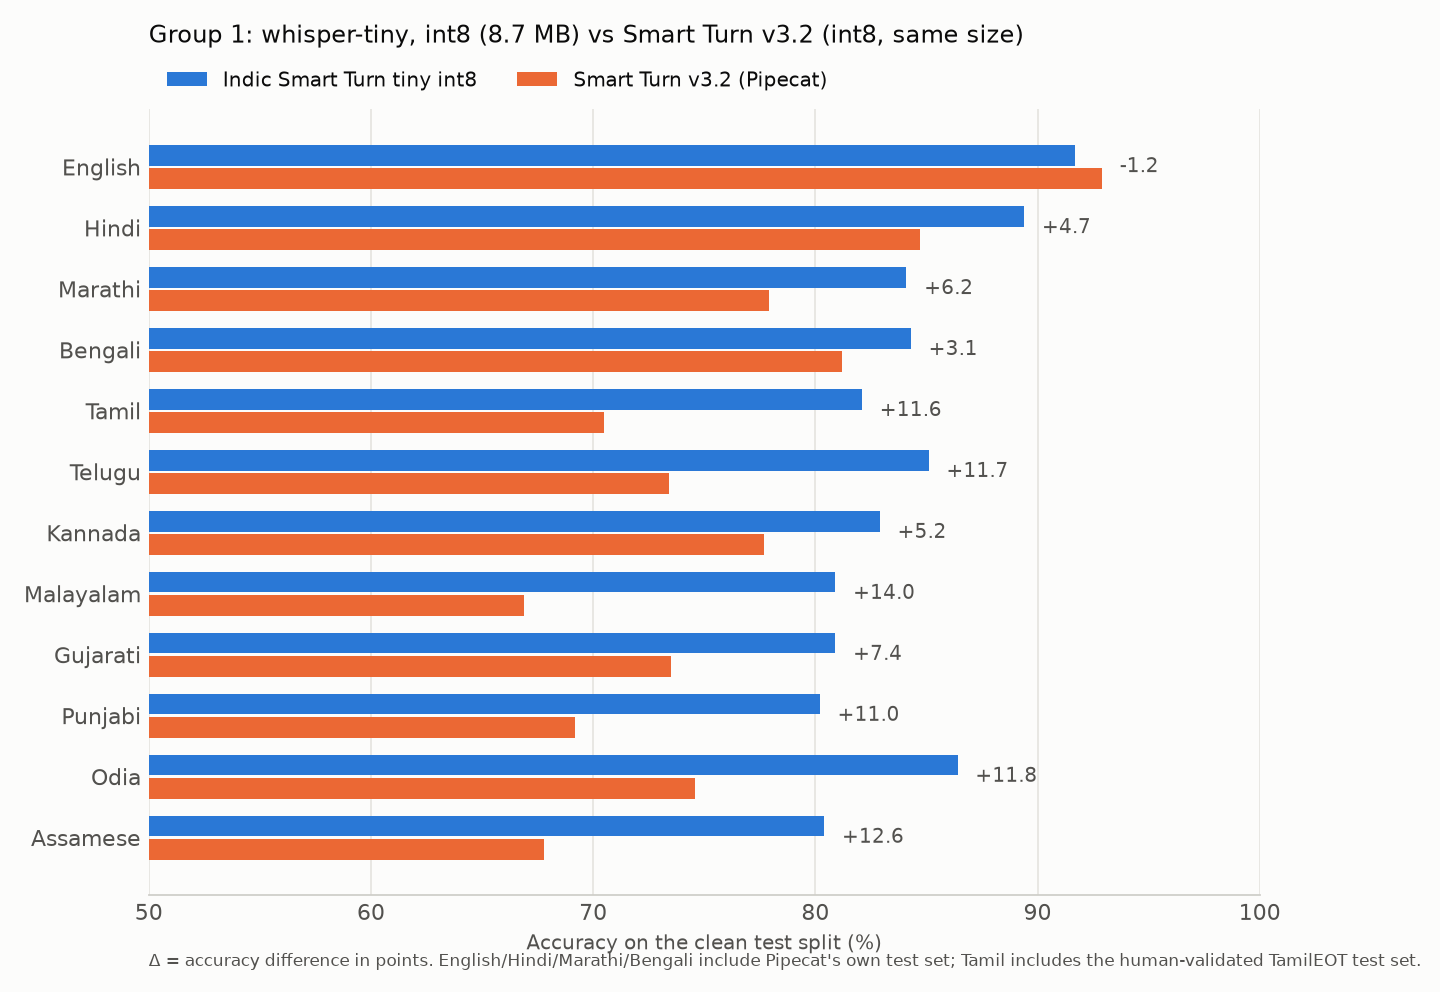
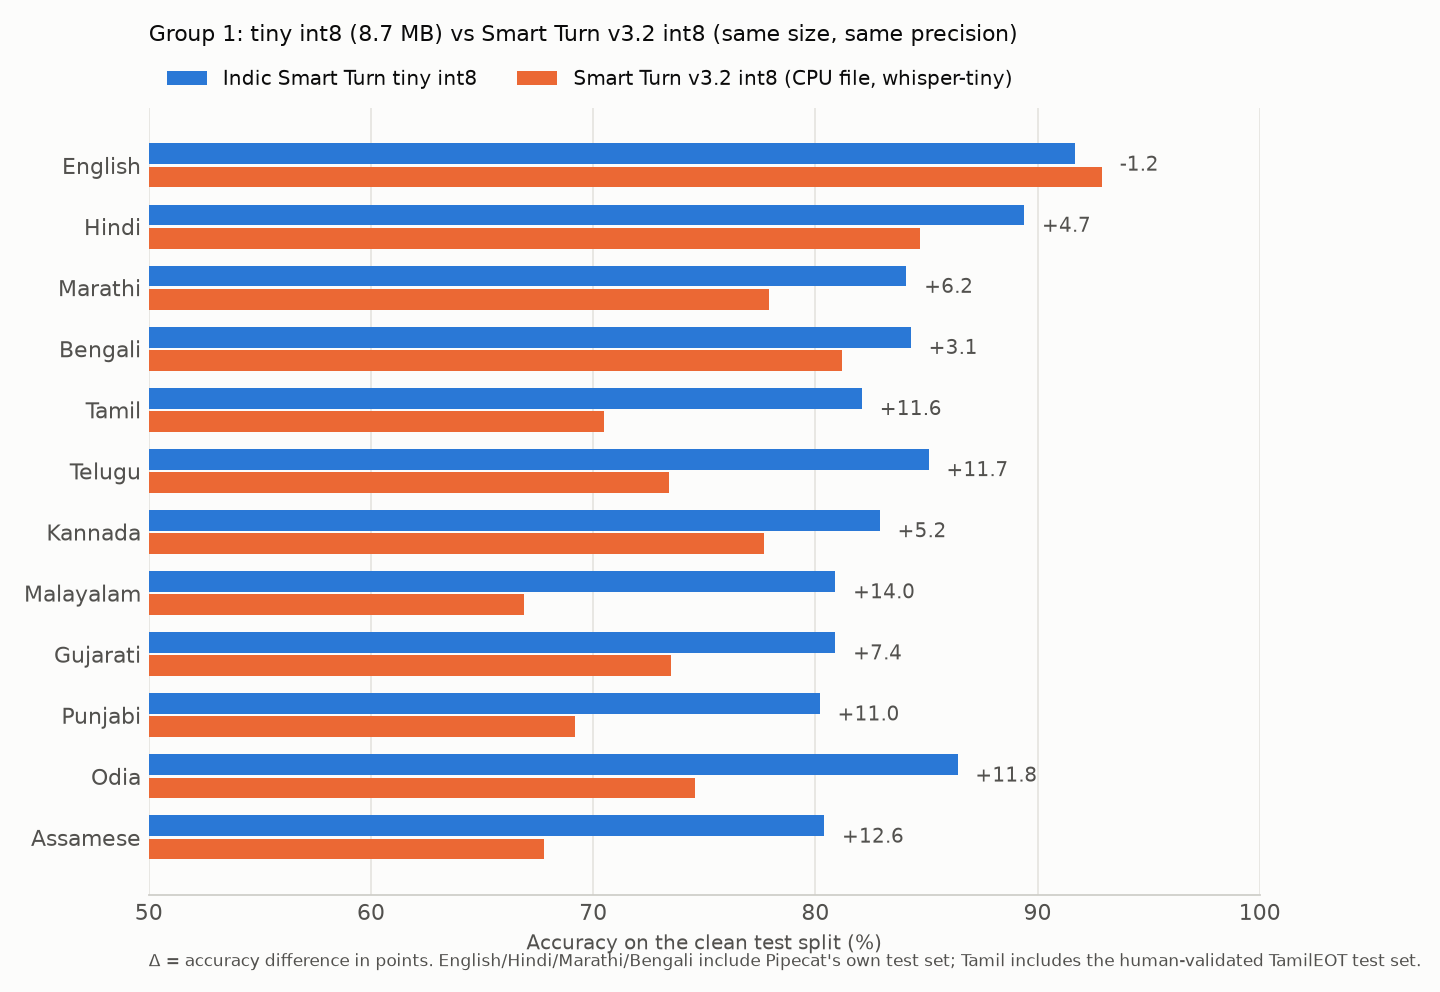
docs: pair each result group with the same-precision Smart Turn v3.2 file; add interactive charts
Smart Turn v3.2 ships as whisper-tiny int8 (CPU) and fp32 (GPU); int8 groups
now compare with the int8 file and fp32 groups with the fp32 file.
docs/charts.html renders the four charts with hover values and table views.

diff --git a/docs/charts.html b/docs/charts.html
@@ -1,0 +1,89 @@
+<title>Indic Smart Turn Results</title>
+<link rel="stylesheet" href="https://fonts.googleapis.com/css2?family=IBM+Plex+Sans:wght@400;500;600&family=IBM+Plex+Mono:wght@400;500&display=swap">
+<style>
+/* Layout: one column of four small-multiple bar charts, each self-contained with legend, hover tooltip and a table view. */
+:root{
+  --bg:#fcfcfb; --surface:#f3f2ee; --ink:#141412; --ink-2:#55534d; --ink-3:#8a877f; --rule:#dedcd5; --grid:#e9e8e3;
+  --ours:#2a78d6; --base:#eb6834; --ours-ink:#1c5cab; --base-ink:#b8461f;
+  --font-body:"IBM Plex Sans",system-ui,-apple-system,"Segoe UI",sans-serif; --font-mono:"IBM Plex Mono",ui-monospace,Menlo,monospace;
+}
+@media (prefers-color-scheme: dark){ :root:not([data-theme="light"]){ color-scheme:dark; --bg:#1a1a19; --surface:#232322; --ink:#f3f2ee; --ink-2:#c3c2b7; --ink-3:#8f8d85; --rule:#3a3936; --grid:#2d2d2b; --ours:#3987e5; --base:#d95926; --ours-ink:#86b6ef; --base-ink:#f2a07f; } }
+:root[data-theme="dark"]{ color-scheme:dark; --bg:#1a1a19; --surface:#232322; --ink:#f3f2ee; --ink-2:#c3c2b7; --ink-3:#8f8d85; --rule:#3a3936; --grid:#2d2d2b; --ours:#3987e5; --base:#d95926; --ours-ink:#86b6ef; --base-ink:#f2a07f; }
+body{margin:0;background:var(--bg);color:var(--ink);font-family:var(--font-body);font-size:15px;line-height:1.5}
+.wrap{max-width:980px;margin:0 auto;padding-block:32px 56px;padding-inline:20px}
+h1{font-size:26px;font-weight:600;margin:0 0 6px;text-wrap:balance;letter-spacing:-0.01em}
+.lede{color:var(--ink-2);max-width:66ch;margin:0 0 8px}
+.meta{font-family:var(--font-mono);font-size:12px;color:var(--ink-3);letter-spacing:.02em;text-transform:uppercase;margin-bottom:28px}
+.chart{border-top:1px solid var(--rule);padding-block:22px 10px}
+.chart h2{font-size:17px;font-weight:600;margin:0 0 4px;text-wrap:balance}
+.chart .sub{color:var(--ink-2);margin:0 0 12px;max-width:70ch}
+.legend{display:flex;flex-wrap:wrap;gap:18px;font-size:13px;color:var(--ink-2);margin:0 0 10px}
+.legend span{display:inline-flex;align-items:center;gap:8px}
+.legend i{display:inline-block;width:14px;height:10px;border-radius:2px}
+.plot{position:relative}
+svg{display:block;width:100%;height:auto}
+.bar{cursor:default}
+.bar:hover{filter:brightness(1.12)}
+.tip{position:absolute;pointer-events:none;background:var(--ink);color:var(--bg);font-family:var(--font-mono);font-size:12px;padding:6px 9px;border-radius:4px;white-space:nowrap;transform:translate(-50%,-115%);opacity:0;transition:opacity .08s}
+.tip.on{opacity:1}
+.tools{display:flex;gap:10px;align-items:center;margin-top:6px}
+button{font:inherit;font-size:13px;color:var(--ink-2);background:var(--surface);border:1px solid var(--rule);border-radius:4px;padding:5px 10px;cursor:pointer}
+button:hover,button:focus-visible{color:var(--ink);outline:2px solid var(--ours);outline-offset:1px}
+table{border-collapse:collapse;width:100%;margin-top:10px;font-size:13px;font-variant-numeric:tabular-nums}
+th,td{text-align:right;padding:5px 8px;border-bottom:1px solid var(--grid)}
+th:first-child,td:first-child{text-align:left}
+th{color:var(--ink-3);font-weight:500}
+.pos{color:var(--ours-ink)} .neg{color:var(--base-ink)}
+.note{color:var(--ink-3);font-size:12.5px;max-width:70ch;margin-top:24px}
+@media (max-width:520px){ .wrap{padding-inline:16px} h1{font-size:22px} }
+@media (prefers-reduced-motion: reduce){ .tip{transition:none} }
+</style>
+<div class="wrap">
+  <h1>Indic Smart Turn versus Smart Turn v3.2</h1>
+  <p class="lede">Accuracy per language on the same speaker-disjoint test clips, at the default 0.5 threshold. Hover a bar for the exact value; open the table for the numbers and the difference.</p>
+  <div class="meta">11 Indian languages + English · 20,431 test clips · four model groups</div>
+  <div id="charts"></div>
+  <p class="note">Pipecat ships Smart Turn v3.2 as two whisper-tiny files: int8 for CPU and fp32 for GPU. There is no base-size v3.2, so the base groups are compared with the tiny v3.2 file of the same precision. English, Hindi, Marathi and Bengali rows include Pipecat's own v3.2 test set; Tamil includes the human-validated TamilEOT test set.</p>
+</div>
+<script>
+const DATA = {"group1_tiny_int8": {"title": "Group 1: tiny int8 (8.7 MB) vs Smart Turn v3.2 int8 (same size, same precision)", "ours_label": "Indic Smart Turn tiny int8", "baseline_label": "Smart Turn v3.2 int8 (CPU file, whisper-tiny)", "languages": ["English", "Hindi", "Marathi", "Bengali", "Tamil", "Telugu", "Kannada", "Malayalam", "Gujarati", "Punjabi", "Odia", "Assamese"], "ours": [91.7, 89.4, 84.1, 84.3, 82.1, 85.1, 82.9, 80.9, 80.9, 80.2, 86.4, 80.4], "baseline": [92.9, 84.7, 77.9, 81.2, 70.5, 73.4, 77.7, 66.9, 73.5, 69.2, 74.6, 67.8]}, "group2_base_int8": {"title": "Group 2: base int8 (24 MB) vs Smart Turn v3.2 int8 (same precision; v3.2 has no base size)", "ours_label": "Indic Smart Turn base int8", "baseline_label": "Smart Turn v3.2 int8 (CPU file, whisper-tiny)", "languages": ["English", "Hindi", "Marathi", "Bengali", "Tamil", "Telugu", "Kannada", "Malayalam", "Gujarati", "Punjabi", "Odia", "Assamese"], "ours": [93.2, 90.7, 88.1, 85.0, 84.8, 85.0, 87.0, 82.6, 82.5, 82.7, 89.1, 81.8], "baseline": [92.9, 84.7, 77.9, 81.2, 70.5, 73.4, 77.7, 66.9, 73.5, 69.2, 74.6, 67.8]}, "group3_tiny_fp32": {"title": "Group 3: tiny fp32 (32 MB) vs Smart Turn v3.2 fp32 (same size, same precision)", "ours_label": "Indic Smart Turn tiny fp32", "baseline_label": "Smart Turn v3.2 fp32 (GPU file, whisper-tiny)", "languages": ["English", "Hindi", "Marathi", "Bengali", "Tamil", "Telugu", "Kannada", "Malayalam", "Gujarati", "Punjabi", "Odia", "Assamese"], "ours": [93.7, 90.2, 88.1, 85.4, 83.4, 85.0, 82.3, 81.4, 82.5, 83.1, 84.9, 81.4], "baseline": [94.7, 83.0, 75.8, 75.9, 58.6, 58.1, 56.6, 49.6, 58.4, 56.7, 60.4, 55.4]}, "group4_base_fp32": {"title": "Group 4: base fp32 (81 MB) vs Smart Turn v3.2 fp32 (same precision; v3.2 has no base size)", "ours_label": "Indic Smart Turn base fp32", "baseline_label": "Smart Turn v3.2 fp32 (GPU file, whisper-tiny)", "languages": ["English", "Hindi", "Marathi", "Bengali", "Tamil", "Telugu", "Kannada", "Malayalam", "Gujarati", "Punjabi", "Odia", "Assamese"], "ours": [94.9, 91.0, 89.6, 86.6, 86.2, 85.7, 88.6, 84.5, 84.7, 85.3, 88.5, 83.6], "baseline": [94.7, 83.0, 75.8, 75.9, 58.6, 58.1, 56.6, 49.6, 58.4, 56.7, 60.4, 55.4]}};
+const order = ["group1_tiny_int8","group2_base_int8","group3_tiny_fp32","group4_base_fp32"];
+const subs = {
+  group1_tiny_int8: "Same encoder size and precision as the shipped Smart Turn v3.2 CPU file.",
+  group2_base_int8: "Weights-only int8; ROC-AUC within 0.005 of fp32 in every language.",
+  group3_tiny_fp32: "Compared with the Smart Turn v3.2 GPU file, which is fp32.",
+  group4_base_fp32: "The most accurate model; on TamilEOT it matches the paper's whisper-base result."
+};
+const root = document.getElementById("charts");
+for (const key of order) {
+  const d = DATA[key]; const n = d.languages.length;
+  const W = 900, L = 96, R = 60, T = 8, rowH = 34, H = T + n*rowH + 30, x0 = 50, x1 = 100;
+  const sx = v => L + (v - x0) / (x1 - x0) * (W - L - R);
+  let svg = `<svg viewBox="0 0 ${W} ${H}" role="img" aria-label="${d.title}">`;
+  for (let g = x0; g <= x1; g += 10) svg += `<line x1="${sx(g)}" x2="${sx(g)}" y1="${T}" y2="${H-26}" stroke="var(--grid)" stroke-width="1"/><text x="${sx(g)}" y="${H-10}" text-anchor="middle" font-size="12" fill="var(--ink-3)" font-family="var(--font-mono)">${g}</text>`;
+  d.languages.forEach((lang, i) => {
+    const y = T + i*rowH, o = d.ours[i], b = d.baseline[i], delta = (o - b);
+    svg += `<text x="${L-10}" y="${y+rowH/2+4}" text-anchor="end" font-size="13" fill="var(--ink)">${lang}</text>`;
+    svg += `<rect class="bar" data-tip="${d.ours_label}: ${o.toFixed(1)}%" x="${sx(x0)}" y="${y+4}" width="${sx(o)-sx(x0)}" height="11" rx="2" fill="var(--ours)"/>`;
+    svg += `<rect class="bar" data-tip="${d.baseline_label}: ${b.toFixed(1)}%" x="${sx(x0)}" y="${y+18}" width="${sx(b)-sx(x0)}" height="11" rx="2" fill="var(--base)"/>`;
+    svg += `<text x="${sx(Math.max(o,b))+8}" y="${y+rowH/2+4}" font-size="12" fill="var(--ink-2)" font-family="var(--font-mono)">${delta>=0?"+":""}${delta.toFixed(1)}</text>`;
+  });
+  svg += `</svg>`;
+  let table = `<table hidden><thead><tr><th>Language</th><th>${d.ours_label}</th><th>${d.baseline_label}</th><th>Difference</th></tr></thead><tbody>`;
+  d.languages.forEach((lang,i)=>{ const dl=d.ours[i]-d.baseline[i]; table += `<tr><td>${lang}</td><td>${d.ours[i].toFixed(1)}</td><td>${d.baseline[i].toFixed(1)}</td><td class="${dl>=0?'pos':'neg'}">${dl>=0?'+':''}${dl.toFixed(1)}</td></tr>`; });
+  table += `</tbody></table>`;
+  const sec = document.createElement("section"); sec.className = "chart";
+  sec.innerHTML = `<h2>${d.title}</h2><p class="sub">${subs[key]}</p>
+    <div class="legend"><span><i style="background:var(--ours)"></i>${d.ours_label}</span><span><i style="background:var(--base)"></i>${d.baseline_label}</span><span><i style="background:transparent;width:0"></i>Number at the end of each row: difference in points</span></div>
+    <div class="plot">${svg}<div class="tip"></div></div>
+    <div class="tools"><button type="button" id="btn-${key}" aria-expanded="false">Show table</button></div>${table}`;
+  root.appendChild(sec);
+  const tip = sec.querySelector(".tip"), plot = sec.querySelector(".plot");
+  sec.querySelectorAll(".bar").forEach(bar => {
+    bar.addEventListener("mousemove", e => { const r = plot.getBoundingClientRect(); tip.textContent = bar.dataset.tip; tip.style.left = (e.clientX - r.left) + "px"; tip.style.top = (e.clientY - r.top) + "px"; tip.classList.add("on"); });
+    bar.addEventListener("mouseleave", () => tip.classList.remove("on"));
+  });
+  const btn = sec.querySelector("button"), tbl = sec.querySelector("table");
+  btn.addEventListener("click", () => { tbl.hidden = !tbl.hidden; btn.textContent = tbl.hidden ? "Show table" : "Hide table"; btn.setAttribute("aria-expanded", String(!tbl.hidden)); });
+}
+</script>

diff --git a/scripts/make_charts.py b/scripts/make_charts.py
@@ -16,16 +16,21 @@ for r in csv.DictReader(open("reports/test_probs.csv")):
     probs[r["language"]].append((float(r["base_int8_dynamic"]) > 0.5) == (r["label"] == "1"))
 code = {"eng":"English","hin":"Hindi","mar":"Marathi","ben":"Bengali","tam":"Tamil","tel":"Telugu","kan":"Kannada","mal":"Malayalam","guj":"Gujarati","pan":"Punjabi","ori":"Odia","asm":"Assamese"}
 for c, v in probs.items(): rows[(code.get(c, c), "base_int8_dynamic")] = 100 * np.mean(v)
-groups = [("group1_tiny_int8", "Group 1: whisper-tiny, int8 (8.7 MB) vs Smart Turn v3.2 (int8, same size)", "tiny_int8", "Indic Smart Turn tiny int8"),
-          ("group2_base_int8", "Group 2: whisper-base, dynamic int8 (24 MB) vs Smart Turn v3.2", "base_int8_dynamic", "Indic Smart Turn base int8"),
-          ("group3_tiny_fp32", "Group 3: whisper-tiny, fp32 (32 MB) vs Smart Turn v3.2", "tiny_fp32", "Indic Smart Turn tiny fp32"),
-          ("group4_base_fp32", "Group 4: whisper-base, fp32 (81 MB) vs Smart Turn v3.2", "base_fp32", "Indic Smart Turn base fp32")]
-for fname, title, key, label in groups:
-    ours = [rows[(l, key)] for l in LANGS]; v32 = [rows[(l, "stock_v3.2_cpu")] for l in LANGS]
+# Pipecat ships Smart Turn v3.2 as two whisper-tiny files: int8 for CPU and fp32 for GPU. There is no base-size v3.2,
+# so int8 groups are compared with the v3.2 int8 file and fp32 groups with the v3.2 fp32 file.
+groups = [("group1_tiny_int8", "Group 1: tiny int8 (8.7 MB) vs Smart Turn v3.2 int8 (same size, same precision)", "tiny_int8", "Indic Smart Turn tiny int8", "stock_v3.2_cpu", "Smart Turn v3.2 int8 (CPU file, whisper-tiny)"),
+          ("group2_base_int8", "Group 2: base int8 (24 MB) vs Smart Turn v3.2 int8 (same precision; v3.2 has no base size)", "base_int8_dynamic", "Indic Smart Turn base int8", "stock_v3.2_cpu", "Smart Turn v3.2 int8 (CPU file, whisper-tiny)"),
+          ("group3_tiny_fp32", "Group 3: tiny fp32 (32 MB) vs Smart Turn v3.2 fp32 (same size, same precision)", "tiny_fp32", "Indic Smart Turn tiny fp32", "stock_v3.2_gpu", "Smart Turn v3.2 fp32 (GPU file, whisper-tiny)"),
+          ("group4_base_fp32", "Group 4: base fp32 (81 MB) vs Smart Turn v3.2 fp32 (same precision; v3.2 has no base size)", "base_fp32", "Indic Smart Turn base fp32", "stock_v3.2_gpu", "Smart Turn v3.2 fp32 (GPU file, whisper-tiny)")]
+import json
+export = {}
+for fname, title, key, label, bkey, blabel in groups:
+    ours = [rows[(l, key)] for l in LANGS]; v32 = [rows[(l, bkey)] for l in LANGS]
+    export[fname] = {"title": title, "ours_label": label, "baseline_label": blabel, "languages": LANGS, "ours": [round(x, 1) for x in ours], "baseline": [round(x, 1) for x in v32]}
     fig, ax = plt.subplots(figsize=(9, 6.2), dpi=160); fig.patch.set_facecolor(SURF); ax.set_facecolor(SURF)
     y = np.arange(len(LANGS)); h = 0.34
     ax.barh(y - h/2 - 0.02, ours, height=h, color=OURS, label=label, zorder=3)
-    ax.barh(y + h/2 + 0.02, v32, height=h, color=V32, label="Smart Turn v3.2 (Pipecat)", zorder=3)
+    ax.barh(y + h/2 + 0.02, v32, height=h, color=V32, label=blabel, zorder=3)
     for i, (o, s) in enumerate(zip(ours, v32)):
         ax.text(max(o, s) + 0.8, y[i], f"{o - s:+.1f}", va="center", ha="left", fontsize=9, color=INK2)
     ax.set_yticks(y); ax.set_yticklabels(LANGS, color=INK, fontsize=10); ax.invert_yaxis()
@@ -33,8 +38,9 @@ for fname, title, key, label in groups:
     ax.xaxis.grid(True, color="#e6e5e1", zorder=0); ax.set_axisbelow(True)
     for s in ("top", "right", "left"): ax.spines[s].set_visible(False)
     ax.spines["bottom"].set_color("#cfcec9"); ax.tick_params(colors=INK2, length=0)
-    ax.set_title(title, loc="left", fontsize=11, color=INK, pad=30)
+    ax.set_title(title, loc="left", fontsize=10, color=INK, pad=30)
     ax.legend(loc="lower left", bbox_to_anchor=(0, 1.0), ncol=2, frameon=False, fontsize=9, labelcolor=INK)
     ax.text(0, -0.09, "Δ = accuracy difference in points. English/Hindi/Marathi/Bengali include Pipecat's own test set; Tamil includes the human-validated TamilEOT test set.", transform=ax.transAxes, fontsize=7.5, color=INK2)
     fig.tight_layout(); fig.savefig(f"docs/figures/{fname}.png", facecolor=SURF); plt.close(fig)
     print(fname, "mean Δ %+.1f" % (np.mean(ours) - np.mean(v32)))
+json.dump(export, open("docs/figures/chart_data.json", "w"), indent=1)

diff --git a/README.md b/README.md
@@ -157,7 +157,7 @@ In-training evaluation uses 10,031 samples: the Indic dev splits, the TamilEOT d
 | Wall time | base 18.7 min, tiny 24.0 min (594 and 460 samples per second) |
 
 > [!NOTE]
-> The fp32 ONNX uses the legacy TorchScript exporter at opset 18 with constant folding on. Folding has to stay on, or int8 quantisation leaves the file at fp32 size. Static int8 is QDQ, per-channel, MinMax on 1,024 training samples: base 81 MB to 21 MB, tiny 32 MB to 8.7 MB. `scripts/reexport.py` repeats export and quantisation from a saved checkpoint.
+> The fp32 ONNX uses the legacy TorchScript exporter at opset 18 with constant folding on. Folding has to stay on, or int8 quantisation leaves the file at fp32 size. The tiny model uses static int8 (QDQ, per-channel, MinMax calibration on 1,024 training samples): 32 MB to 8.7 MB. The base model uses dynamic int8 (weights only, no calibration): 81 MB to 24 MB, because static calibration cost it 4 to 9 points of accuracy while dynamic kept ROC-AUC unchanged. `scripts/reexport.py` repeats export and quantisation from a saved checkpoint.
 
 ### Reproducing
 
@@ -185,33 +185,38 @@ Compute cost for both runs, export, quantisation and evaluation is about $2 at t
 
 ## Results
 
-Four comparison groups, one per model size and precision. Every chart compares our model against Smart Turn v3.2 (Pipecat's shipped int8 model) on the same clean, speaker-disjoint test clips: the IndicVoices test split for all eleven Indian languages, plus Pipecat's own v3.2 test set for English, Hindi, Marathi and Bengali, plus the human-validated TamilEOT test set for Tamil. Numbers are accuracy at the default 0.5 threshold; full tables with ROC-AUC and 95% bootstrap intervals are in `reports/eval_all_test.md`, and the discussion is in `reports/STAGE6_REPORT.md`.
+Four comparison groups, one per model size and precision. Smart Turn v3.2 is Pipecat's shipped model: a whisper-tiny in two files, int8 for CPU and fp32 for GPU. There is no base-size v3.2, so each group is compared with the v3.2 file of the same precision.
 
-### Group 1: whisper-tiny, int8 (8.7 MB), the like-for-like comparison
+- Metric: accuracy at the default 0.5 threshold on the same speaker-disjoint test clips.
+- Test data: the IndicVoices test split for all eleven Indian languages; Pipecat's own v3.2 test set for English, Hindi, Marathi and Bengali; the human-validated TamilEOT test set for Tamil.
+- Full tables with ROC-AUC and 95% bootstrap intervals: `reports/eval_all_test.md`. Discussion: `reports/STAGE6_REPORT.md`.
+- **Interactive charts** with hover values and table views: `docs/charts.html`.
 
-Smart Turn v3.2 is a whisper-tiny int8 model, so this is the same size and the same speed (83 ms vs 80 ms single-thread). Ours is ahead in 11 of 12 languages, by 3 to 14 points; English is 1.2 points behind.
+### Group 1: tiny int8 vs Smart Turn v3.2 int8
+
+Same encoder size and precision as the shipped CPU file, and the same speed (83 ms vs 80 ms single-thread).
 
 ![Group 1](docs/figures/group1_tiny_int8.png)
 
-### Group 2: whisper-base, dynamic int8 (24 MB)
+### Group 2: base int8 vs Smart Turn v3.2 int8
 
-Weights-only int8 keeps ROC-AUC within 0.005 of fp32 in every language. The first int8 build used MinMax static calibration and lost 4 to 9 points; it is not shipped.
+Weights-only int8; ROC-AUC within 0.005 of fp32 in every language.
 
 ![Group 2](docs/figures/group2_base_int8.png)
 
-### Group 3: whisper-tiny, fp32 (32 MB)
+### Group 3: tiny fp32 vs Smart Turn v3.2 fp32
 
 ![Group 3](docs/figures/group3_tiny_fp32.png)
 
-### Group 4: whisper-base, fp32 (81 MB)
+### Group 4: base fp32 vs Smart Turn v3.2 fp32
 
-The best model: 84 to 95% accuracy, AUC 0.86 to 0.99. On TamilEOT it scores 85.9%, matching the paper's whisper-base result of 86.1%, while also covering ten other languages. On Pipecat's own test set it scores 93.6% against 90.6% for Smart Turn v3.2.
+The most accurate model: 84 to 95% accuracy, AUC 0.86 to 0.99. On TamilEOT it scores 85.9%, matching the paper's whisper-base result of 86.1%. On Pipecat's own test set it scores 93.6% against 90.6%.
 
 ![Group 4](docs/figures/group4_base_fp32.png)
 
 ### Latency, batch 1, single thread
 
-| model | server core (AMD EPYC 7543) | MacBook (Apple Silicon) |
+| Model | Server core (AMD EPYC 7543) | MacBook (Apple Silicon) |
 |---|---:|---:|
 | Smart Turn v3.2 int8 | 80 ms | |
 | tiny int8 | 83 ms | 36 ms |
@@ -220,17 +225,17 @@ The best model: 84 to 95% accuracy, AUC 0.86 to 0.99. On TamilEOT it scores 85.9
 
 ### Recommendation
 
-- **Default: base, dynamic int8.** Best accuracy per millisecond on x86 servers, AUC identical to fp32.
+> **Default: base, dynamic int8.** Best accuracy per millisecond on x86 servers, AUC identical to fp32.
+
 - **base fp32** where the host is Apple Silicon or a GPU: it runs as fast as tiny there and has the best numbers.
 - **tiny int8** for constrained CPUs: same size and speed as Smart Turn v3.2, ahead in every Indian language.
-
-The weakest languages are Assamese, Gujarati and Malayalam at 82 to 85%. They have the same data volume as the others, so the next lever is in-domain production audio, not more public data.
+- Weakest languages: Assamese, Gujarati and Malayalam at 82 to 85%. They have the same data volume as the others, so the next lever is in-domain production audio.
 
 ## Verification
 
 What was checked, and the outcome:
 
-| check | result |
+| Checks | Result |
 |---|---|
 | Evaluation code reproduces published numbers | Smart Turn v3.2 on TamilEOT: 70.4% / AUC 0.743 (paper 70.3 / 0.751); public Tamil base model: 86.1% / 0.922 (paper 86.13) |
 | At least 84% accuracy on every Indian language, base fp32 | 10 of 11; Assamese 83.6 with a 95% interval of 80.9 to 86.5 |
@@ -261,4 +266,31 @@ Use it wherever you would pass the stock analyzer, for example in the user-turn 
 
 ### Directly
 
-`indic_turn/eval.py` has a minimal wrapper (`Model(name, path).run([wav])`), or use the upstream `references/smart-turn/inference.py` with `ONNX_MODEL_PATH` pointed at the file. Both feed the last 8 s of audio through `WhisperFeatureExtractor(chunk_length=8)` with `do_normalize=True`.
+```python
+import numpy as np
+import onnxruntime as ort
+from transformers import WhisperFeatureExtractor
+
+session = ort.InferenceSession("indic-smart-turn-base-int8.onnx")
+feature_extractor = WhisperFeatureExtractor(chunk_length=8)
+
+def predict(audio):
+    # audio is float32 at 16 kHz, ending where the speaker paused.
+    # Keep the last 8 s, and pad the front with silence if it is shorter.
+    n = 8 * 16000
+    audio = audio[-n:] if len(audio) > n else np.pad(audio, (n - len(audio), 0))
+
+    feats = feature_extractor(
+        audio,
+        sampling_rate=16000,
+        return_tensors="np",
+        padding="max_length",
+        max_length=n,
+        truncation=True,
+        do_normalize=True,
+    )
+    mel = np.expand_dims(feats.input_features.squeeze(0).astype(np.float32), 0)
+
+    probability = session.run(None, {"input_features": mel})[0][0].item()
+    return probability  # above 0.5 means the turn is complete
+```
